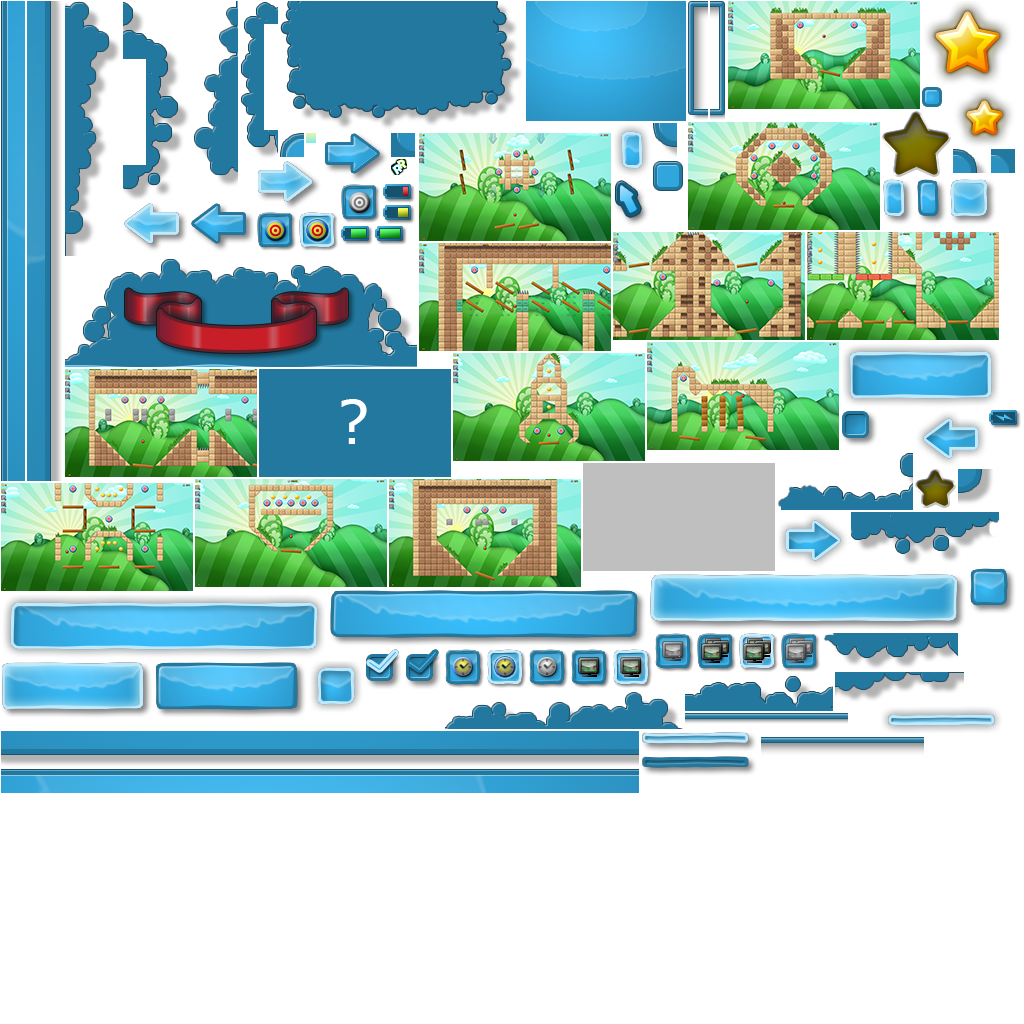
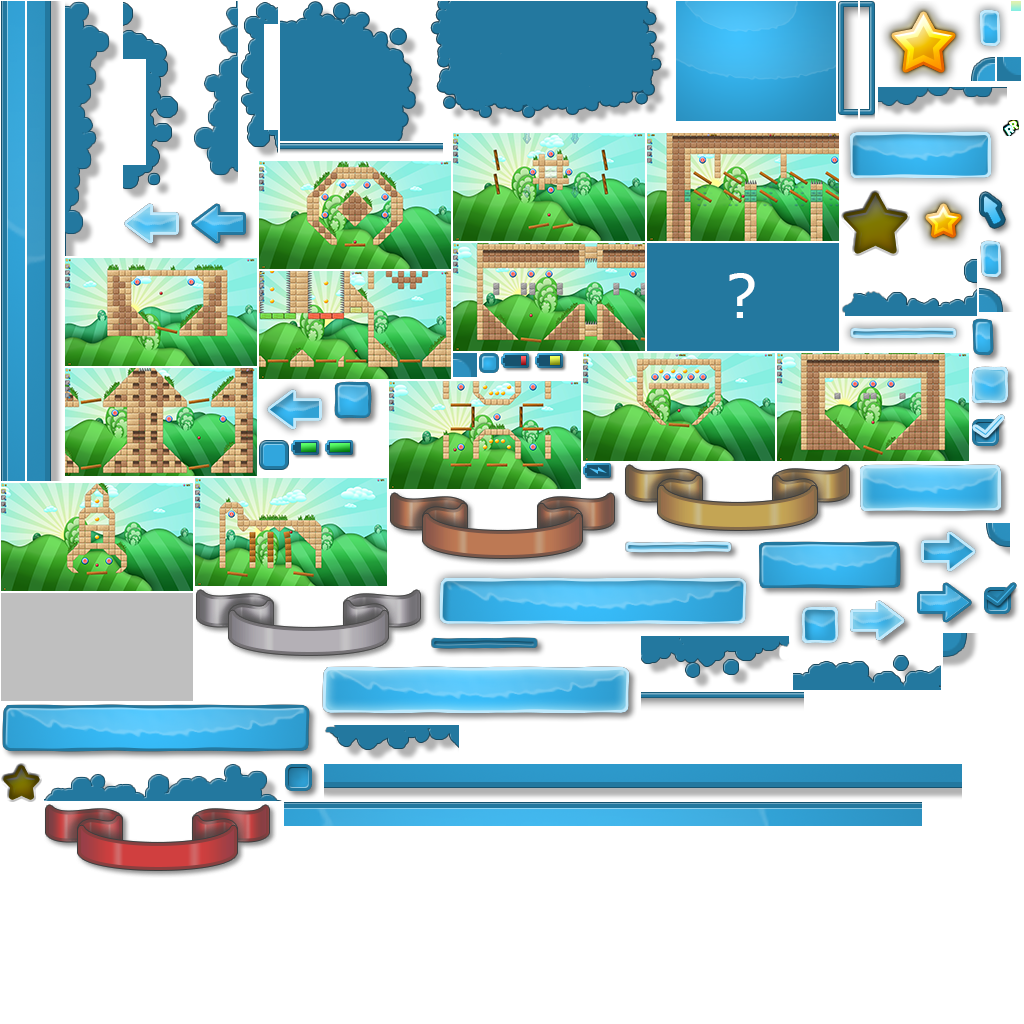
Adapt replay-menu to new design

diff --git a/Source/FirstParty/Src/gui/ReplayMenu.hpp b/Source/FirstParty/Src/gui/ReplayMenu.hpp
@@ -16,11 +16,16 @@ public:
     static const int SPRITE_SYMBOL_STAR_BRONCE_DARK = 25;
     static const int SPRITE_SYMBOL_STAR_SILVER_DARK = 26;
     static const int SPRITE_SYMBOL_STAR_GOLD_DARK = 27;
+    static const int SPRITE_RIBBON_BRONCE = 14;
+    static const int SPRITE_RIBBON_SILVER = 15;
+    static const int SPRITE_RIBBON_GOLD = 16;
+    static const int SPRITE_RIBBON_RED = 17;
     static const int SPRITE_SYMBOL_STAR_BRONCE_FILLED = 35;
     static const int SPRITE_SYMBOL_STAR_SILVER_FILLED = 36;
     static const int SPRITE_SYMBOL_STAR_GOLD_FILLED = 37;
     static const int LABEL_POINTS = 10;
     static const int LABEL_LOSTBALLS = 12;
+    static const int LABEL_TIME = 41;
 
     ReplayMenu(sf::RenderWindow& screen,
                ResourceManager& resourceManager);
@@ -29,6 +34,7 @@ public:
     void setPoints(int points);
     void setGrade(int grade);
     void setLostBalls(int lostBalls);
+    void setPlayTime(float playTime);
     void setMedalToolTipText(const std::string& text);
 };
 

diff --git a/Source/FirstParty/Src/state/LevelPassState.cpp b/Source/FirstParty/Src/state/LevelPassState.cpp
@@ -51,6 +51,12 @@ void LevelPassState::onEnter(const EnterStateInformation* enterInformation, cons
     m_menu.setPoints(m_level->getPoints());
     m_menu.setGrade(m_level->getMedal());
     m_menu.setLostBalls(m_level->getLostBalls());
+
+    if(m_level->isTimeAttackMode())
+        m_menu.setPlayTime(static_cast<float>(m_level->getTotalTime()));
+    else
+        m_menu.setPlayTime(static_cast<float>(m_level->getLevelPlayTime()));
+
     std::string text = "@@" + utility::replace(utility::replace(utility::replace(utility::translateKey("tooltip_medals"),
                                             utility::toString(m_level->getMedal(Level::Gold))),   // first replace
                                             utility::toString(m_level->getMedal(Level::Silver))), // second replace

diff --git a/Source/FirstParty/Src/gui/ReplayMenu.cpp b/Source/FirstParty/Src/gui/ReplayMenu.cpp
@@ -27,6 +27,15 @@ void ReplayMenu::setGrade(int grade)
     Menu::getAnimation(SPRITE_SYMBOL_STAR_BRONCE_FILLED).setVisible(grade <= 2);
     Menu::getAnimation(SPRITE_SYMBOL_STAR_SILVER_FILLED).setVisible(grade <= 1);
     Menu::getAnimation(SPRITE_SYMBOL_STAR_GOLD_FILLED).setVisible(grade <= 0);
+    Menu::getSprite(SPRITE_RIBBON_RED).setVisible(grade > 2);
+    Menu::getSprite(SPRITE_RIBBON_BRONCE).setVisible(grade == 2);
+    Menu::getSprite(SPRITE_RIBBON_SILVER).setVisible(grade == 1);
+    Menu::getSprite(SPRITE_RIBBON_GOLD).setVisible(grade == 0);
+}
+
+void ReplayMenu::setPlayTime(float playTime)
+{
+    Menu::getLabel(LABEL_TIME).setText(utility::floatToPlayTimeString(playTime));
 }
 
 void ReplayMenu::setLostBalls(int lostBalls)
